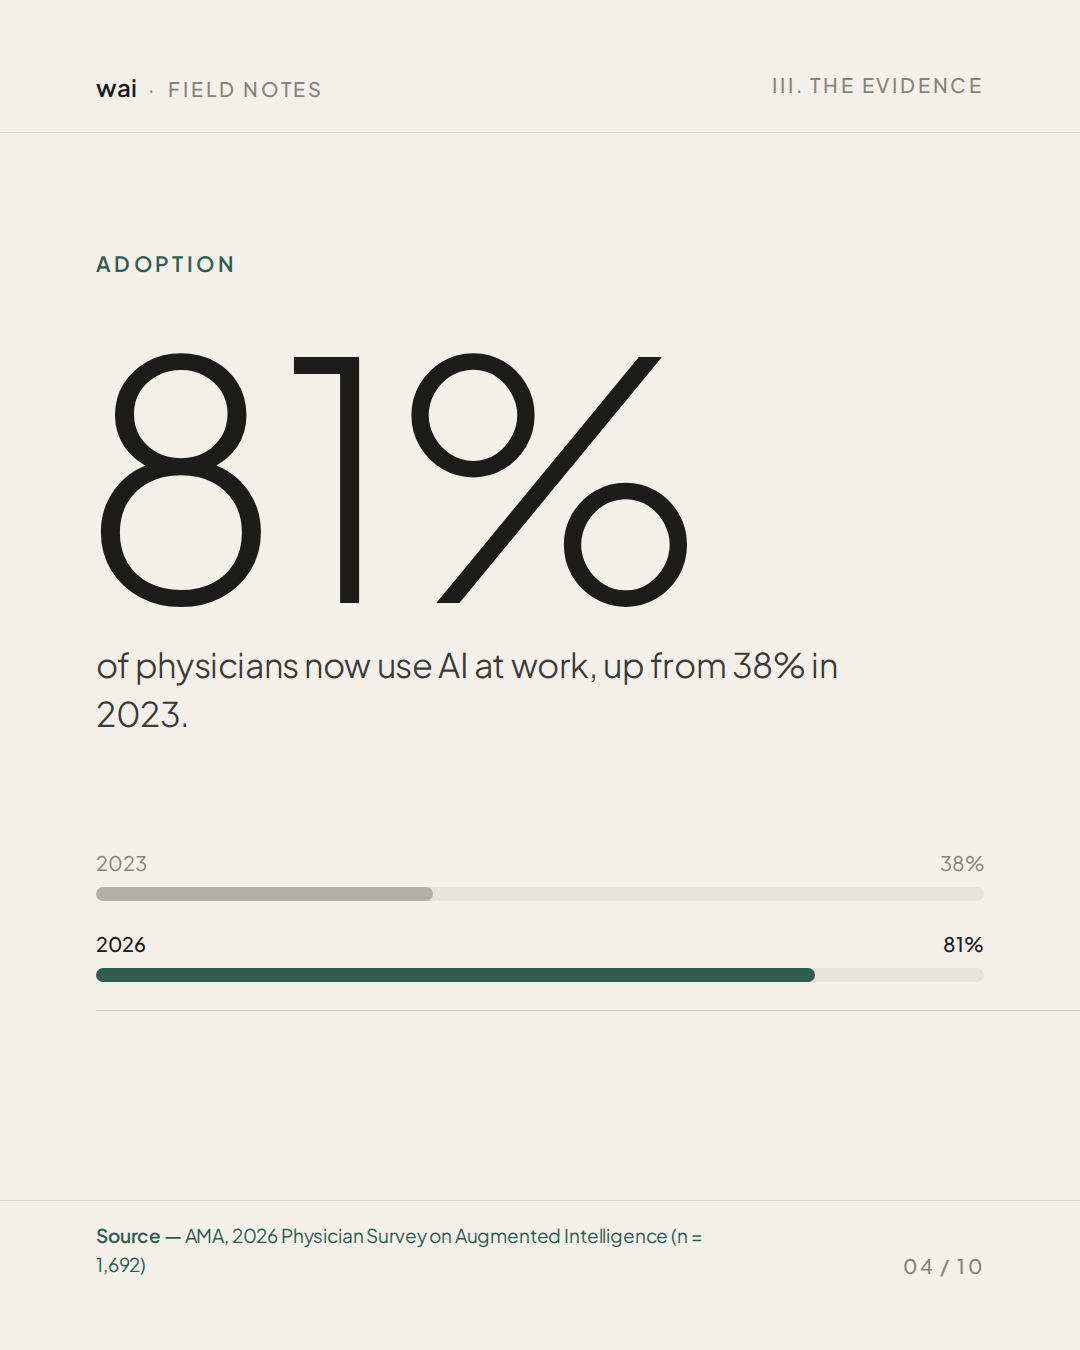
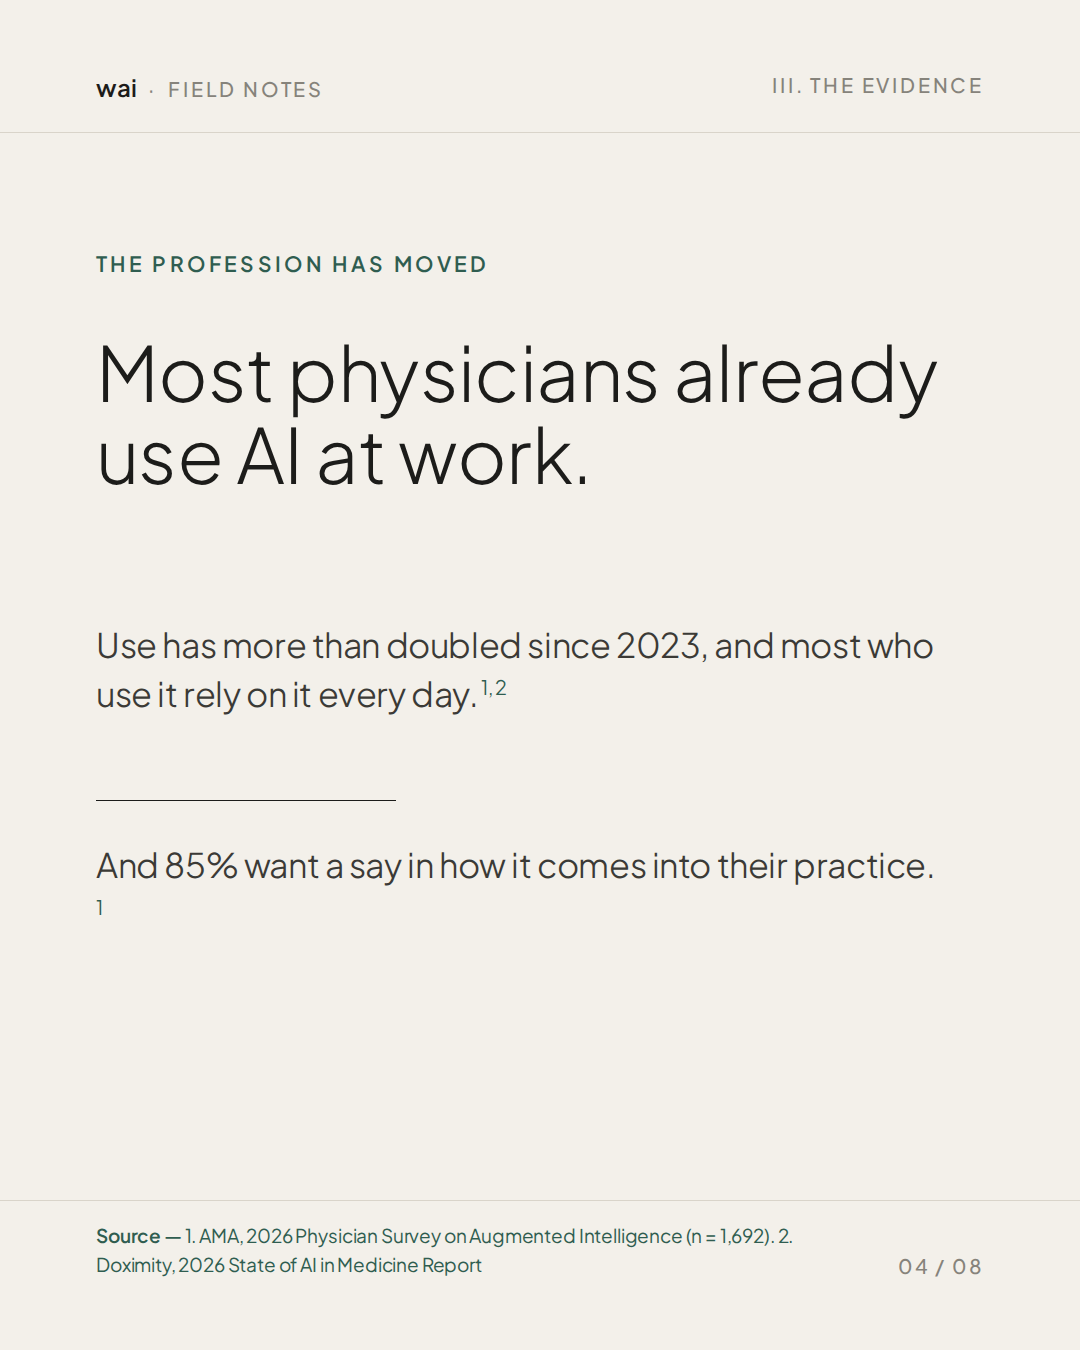
Rework wai carousel to 8 slides with fewer stat-led pages
Keep the 57.8-hour hook and the burnout study as the only number-led
slides; fold the AMA and Doximity figures into one editorial slide.

Claude-Session: https://claude.ai/code/session_012gvNFrVBV2SWFASoGgB3Ry

diff --git a/wai-carousel/source.html b/wai-carousel/source.html
@@ -40,17 +40,11 @@ body{font-family:'PJS',sans-serif;color:var(--ink);-webkit-font-smoothing:antial
 </style>
 </head>
 <body>
-<div id="strip">
-
-<!-- continuous elements -->
-<div class="rule" style="top:132px"></div>
-<div class="rule" style="top:1200px"></div>
+<div id="strip" style="width:8640px">
+<div class="rule" style="top:132px;width:8640px"></div>
+<div class="rule" style="top:1200px;width:8640px"></div>
 <div class="arc" style="width:1500px;height:1500px;left:330px;top:-80px"></div>
-<div class="arc" style="width:1300px;height:1300px;left:8180px;top:25px"></div>
-<!-- data rail across stats slides 4-7 -->
-<div style="position:absolute;left:3336px;width:4128px;top:1010px;height:1px;background:var(--ink);opacity:.18"></div>
-
-<!-- 1 COVER -->
+<div class="arc" style="width:1300px;height:1300px;left:6020px;top:25px"></div>
 <section class="s" style="left:0">
   <div class="hd"><span><b>wai</b> &nbsp;·&nbsp; Field Notes</span><span>No. 01 — Clinical time</span></div>
   <div style="position:absolute;top:250px;left:96px" class="kicker">The work after the visit</div>
@@ -58,20 +52,16 @@ body{font-family:'PJS',sans-serif;color:var(--ink);-webkit-font-smoothing:antial
   <div style="position:absolute;top:735px;left:96px" class="h"><span style="font-size:118px">hours a week.</span></div>
   <div style="position:absolute;top:900px;left:100px;font-size:46px;font-style:italic;font-weight:300;color:#4A4944;letter-spacing:-0.02em">Not all of it is medicine.</div>
   <div style="position:absolute;top:262px;right:96px" class="chip"><span class="dot"></span>18:02 · Last patient seen</div>
-  <div class="ft"><span class="src">AMA physician survey</span><span class="folio">01 / 10 &nbsp;→</span></div>
+  <div class="ft"><span class="src">AMA physician survey</span><span class="folio">01 / 08 &nbsp;→</span></div>
 </section>
-
-<!-- 2 -->
 <section class="s" style="left:1080px">
   <div class="hd"><span><b>wai</b> &nbsp;·&nbsp; Field Notes</span><span>The work after the visit</span></div>
   <div style="position:absolute;top:250px;left:96px" class="kicker">I. The second shift</div>
   <div style="position:absolute;top:330px;left:96px;width:860px" class="h"><span style="font-size:92px">The consultation is only part of the work.</span></div>
   <div style="position:absolute;top:760px;left:96px;width:300px;height:1px;background:var(--ink)"></div>
   <div style="position:absolute;top:800px;left:96px;width:780px" class="body">When the last patient leaves, a second workload begins. It rarely appears on the rota, yet every piece of it carries clinical responsibility.</div>
-  <div class="ft"><span class="src">Medscape UK, “Junior Doctors Work 57 Hours a Week”, 29 Sep 2026</span><span class="folio">02 / 10</span></div>
+  <div class="ft"><span class="src">Medscape UK, “Junior Doctors Work 57 Hours a Week”, 29 Sep 2026</span><span class="folio">02 / 08</span></div>
 </section>
-
-<!-- 3 UI: four tasks -->
 <section class="s" style="left:2160px">
   <div class="hd"><span><b>wai</b> &nbsp;·&nbsp; Field Notes</span><span>The work after the visit</span></div>
   <div style="position:absolute;top:250px;left:96px" class="kicker">II. After every visit</div>
@@ -85,72 +75,36 @@ body{font-family:'PJS',sans-serif;color:var(--ink);-webkit-font-smoothing:antial
     <div class="row"><span>The booking</span><span class="st"><span class="dot"></span>Next appointment arranged</span></div>
   </div>
   <div style="position:absolute;top:1060px;left:96px;width:820px" class="note">Each one is essential. None of them appears on the rota.</div>
-  <div class="ft"><span></span><span class="folio">03 / 10</span></div>
+  <div class="ft"><span></span><span class="folio">03 / 08</span></div>
 </section>
-
-<!-- 4 81% -->
 <section class="s" style="left:3240px">
   <div class="hd"><span><b>wai</b> &nbsp;·&nbsp; Field Notes</span><span>III. The evidence</span></div>
-  <div style="position:absolute;top:250px;left:96px" class="kicker">Adoption</div>
-  <div style="position:absolute;top:320px;left:80px" class="big"><span style="font-size:330px">81%</span></div>
-  <div style="position:absolute;top:640px;left:96px;width:800px" class="body">of physicians now use AI at work, up from 38% in 2023.</div>
-  <div style="position:absolute;top:850px;left:96px;width:888px">
-    <div style="display:flex;justify-content:space-between;font-size:20px;color:var(--muted);margin-bottom:12px"><span>2023</span><span>38%</span></div>
-    <div class="bar"><div class="bar" style="width:38%;background:var(--soft)"></div></div>
-    <div style="display:flex;justify-content:space-between;font-size:20px;color:var(--ink);margin:30px 0 12px;font-weight:500"><span>2026</span><span>81%</span></div>
-    <div class="bar"><div class="bar" style="width:81%;background:var(--green)"></div></div>
-  </div>
-  <div class="ft"><span class="src">AMA, 2026 Physician Survey on Augmented Intelligence (n = 1,692)</span><span class="folio">04 / 10</span></div>
+  <div style="position:absolute;top:250px;left:96px" class="kicker">The profession has moved</div>
+  <div style="position:absolute;top:330px;left:96px;width:880px" class="h"><span style="font-size:76px">Most physicians already use AI at work.</span></div>
+  <div style="position:absolute;top:620px;left:96px;width:840px" class="body">Use has more than doubled since 2023, and most who use it rely on it every day.<sup style="font-size:20px;color:var(--green)"> 1, 2</sup></div>
+  <div style="position:absolute;top:800px;left:96px;width:300px;height:1px;background:var(--ink)"></div>
+  <div style="position:absolute;top:840px;left:96px;width:840px" class="body">And 85% want a say in how it comes into their practice.<sup style="font-size:20px;color:var(--green)"> 1</sup></div>
+  <div class="ft"><span class="src" style="max-width:720px">1. AMA, 2026 Physician Survey on Augmented Intelligence (n = 1,692). 2. Doximity, 2026 State of AI in Medicine Report</span><span class="folio">04 / 08</span></div>
 </section>
-
-<!-- 5 74% -->
 <section class="s" style="left:4320px">
-  <div class="hd"><span><b>wai</b> &nbsp;·&nbsp; Field Notes</span><span>III. The evidence</span></div>
-  <div style="position:absolute;top:250px;left:96px" class="kicker">Habit</div>
-  <div style="position:absolute;top:320px;left:80px" class="big"><span style="font-size:330px">74%</span></div>
-  <div style="position:absolute;top:640px;left:96px;width:800px" class="body">of physicians who use AI use it every day.</div>
-  <div style="position:absolute;top:860px;left:96px;display:flex;gap:18px"><div style="text-align:center;font-size:18px;color:var(--muted)"><div style="width:104px;height:104px;border-radius:26px;background:var(--green);margin-bottom:12px"></div>Mon</div><div style="text-align:center;font-size:18px;color:var(--muted)"><div style="width:104px;height:104px;border-radius:26px;background:var(--green);margin-bottom:12px"></div>Tue</div><div style="text-align:center;font-size:18px;color:var(--muted)"><div style="width:104px;height:104px;border-radius:26px;background:var(--green);margin-bottom:12px"></div>Wed</div><div style="text-align:center;font-size:18px;color:var(--muted)"><div style="width:104px;height:104px;border-radius:26px;background:var(--green);margin-bottom:12px"></div>Thu</div><div style="text-align:center;font-size:18px;color:var(--muted)"><div style="width:104px;height:104px;border-radius:26px;background:var(--green);margin-bottom:12px"></div>Fri</div><div style="text-align:center;font-size:18px;color:var(--muted)"><div style="width:104px;height:104px;border-radius:26px;background:var(--green);margin-bottom:12px"></div>Sat</div><div style="text-align:center;font-size:18px;color:var(--muted)"><div style="width:104px;height:104px;border-radius:26px;background:var(--green);margin-bottom:12px"></div>Sun</div>
-  </div>
-  <div class="ft"><span class="src">Doximity, 2026 State of AI in Medicine Report</span><span class="folio">05 / 10</span></div>
-</section>
-
-<!-- 6 burnout -->
-<section class="s" style="left:5400px">
-  <div class="hd"><span><b>wai</b> &nbsp;·&nbsp; Field Notes</span><span>III. The evidence</span></div>
+  <div class="hd"><span><b>wai</b> &nbsp;·&nbsp; Field Notes</span><span>IV. One study</span></div>
   <div style="position:absolute;top:250px;left:96px" class="kicker">Burnout</div>
   <div style="position:absolute;top:320px;left:88px" class="big"><div style="font-size:96px;color:var(--soft);font-weight:300;letter-spacing:-0.04em">51.9% <span style="font-size:60px">→</span></div><div style="font-size:230px;margin-top:10px">38.8%</div></div>
   <div style="position:absolute;top:690px;left:96px;width:820px" class="body">Clinician burnout, before and after 30 days with an ambient AI scribe.</div>
   <div style="position:absolute;top:830px;left:96px;display:flex;gap:16px">
     <span class="chip">263 clinicians</span><span class="chip">6 US health systems</span><span class="chip">No control group</span>
   </div>
-  <div class="ft"><span class="src">Olson et al., 2025, JAMA Network Open</span><span class="folio">06 / 10</span></div>
+  <div class="ft"><span class="src">Olson et al., 2025, JAMA Network Open</span><span class="folio">05 / 08</span></div>
 </section>
-
-<!-- 7 85% -->
-<section class="s" style="left:6480px">
-  <div class="hd"><span><b>wai</b> &nbsp;·&nbsp; Field Notes</span><span>III. The evidence</span></div>
-  <div style="position:absolute;top:250px;left:96px" class="kicker">Consent</div>
-  <div style="position:absolute;top:320px;left:80px" class="big"><span style="font-size:330px">85%</span></div>
-  <div style="position:absolute;top:640px;left:96px;width:800px" class="body">of physicians want a say in how AI comes into their practice.</div>
-  <div style="position:absolute;top:860px;left:96px;display:grid;grid-template-columns:repeat(20,32px);gap:12px">
-    <!-- 20 cells = 100%, 17 filled = 85% -->
-    <i style="height:32px;border-radius:50%;background:var(--green)"></i><i style="height:32px;border-radius:50%;background:var(--green)"></i><i style="height:32px;border-radius:50%;background:var(--green)"></i><i style="height:32px;border-radius:50%;background:var(--green)"></i><i style="height:32px;border-radius:50%;background:var(--green)"></i><i style="height:32px;border-radius:50%;background:var(--green)"></i><i style="height:32px;border-radius:50%;background:var(--green)"></i><i style="height:32px;border-radius:50%;background:var(--green)"></i><i style="height:32px;border-radius:50%;background:var(--green)"></i><i style="height:32px;border-radius:50%;background:var(--green)"></i><i style="height:32px;border-radius:50%;background:var(--green)"></i><i style="height:32px;border-radius:50%;background:var(--green)"></i><i style="height:32px;border-radius:50%;background:var(--green)"></i><i style="height:32px;border-radius:50%;background:var(--green)"></i><i style="height:32px;border-radius:50%;background:var(--green)"></i><i style="height:32px;border-radius:50%;background:var(--green)"></i><i style="height:32px;border-radius:50%;background:var(--green)"></i><i style="height:32px;border-radius:50%;background:#E3DED4"></i><i style="height:32px;border-radius:50%;background:#E3DED4"></i><i style="height:32px;border-radius:50%;background:#E3DED4"></i>
-  </div>
-  <div class="ft"><span class="src">AMA, 2026 Physician Survey on Augmented Intelligence</span><span class="folio">07 / 10</span></div>
-</section>
-
-<!-- 8 control -->
-<section class="s" style="left:7560px">
-  <div class="hd"><span><b>wai</b> &nbsp;·&nbsp; Field Notes</span><span>IV. On trust</span></div>
+<section class="s" style="left:5400px">
+  <div class="hd"><span><b>wai</b> &nbsp;·&nbsp; Field Notes</span><span>V. On trust</span></div>
   <div style="position:absolute;top:250px;left:96px" class="kicker">Control builds trust</div>
   <div style="position:absolute;top:330px;left:96px;width:880px" class="h"><span style="font-size:70px">People abandon an algorithm after one visible mistake.</span></div>
   <div style="position:absolute;top:640px;left:96px;width:860px" class="body">But they keep using an imperfect one when they can <span style="background:linear-gradient(transparent 58%, rgba(47,93,80,.16) 58%);">change its output</span><span style="display:inline-block;width:3px;height:38px;background:var(--green);vertical-align:-6px;margin-left:4px"></span></div>
-  <div class="ft"><span class="src">Dietvorst, Simmons &amp; Massey, 2015; Dietvorst et al., 2018</span><span class="folio">08 / 10</span></div>
+  <div class="ft"><span class="src">Dietvorst, Simmons &amp; Massey, 2015; Dietvorst et al., 2018</span><span class="folio">06 / 08</span></div>
 </section>
-
-<!-- 9 product UI -->
-<section class="s" style="left:8640px">
-  <div class="hd"><span><b>wai</b> &nbsp;·&nbsp; Field Notes</span><span>V. The approach</span></div>
+<section class="s" style="left:6480px">
+  <div class="hd"><span><b>wai</b> &nbsp;·&nbsp; Field Notes</span><span>VI. The approach</span></div>
   <div style="position:absolute;top:250px;left:96px" class="kicker">Prepared by wai</div>
   <div style="position:absolute;top:320px;left:96px;width:880px" class="h"><span style="font-size:76px">Approved by the doctor.</span></div>
   <div class="card" style="position:absolute;top:500px;left:96px;width:888px;padding:36px">
@@ -168,20 +122,15 @@ body{font-family:'PJS',sans-serif;color:var(--ink);-webkit-font-smoothing:antial
     </div>
   </div>
   <div style="position:absolute;top:1010px;left:96px;width:860px" class="note">Every word is reviewed, edited and approved before anything is sent.</div>
-  <div class="ft"><span></span><span class="folio">09 / 10</span></div>
+  <div class="ft"><span></span><span class="folio">07 / 08</span></div>
 </section>
-
-<!-- 10 close -->
-<section class="s" style="left:9720px">
+<section class="s" style="left:7560px">
   <div class="hd"><span><b>wai</b> &nbsp;·&nbsp; Field Notes</span><span>End note</span></div>
   <div style="position:absolute;top:330px;left:96px;width:880px" class="h"><span style="font-size:96px">The visit is the medicine.</span></div>
   <div style="position:absolute;top:580px;left:100px;width:880px;font-size:56px;font-style:italic;font-weight:300;color:#4A4944;letter-spacing:-0.025em">Let the rest be prepared.</div>
   <div style="position:absolute;top:860px;left:92px;font-size:150px;font-weight:600;letter-spacing:-0.06em;line-height:1">wai</div>
   <div style="position:absolute;top:1040px;left:96px;font-size:26px;font-weight:500;color:var(--green);letter-spacing:.02em">wellnessa-i.com</div>
   <div style="position:absolute;top:1030px;right:96px;display:flex;gap:12px"><span class="chip">Save</span><span class="chip">Send to a colleague</span></div>
-  <div class="ft"><span></span><span class="folio">10 / 10</span></div>
+  <div class="ft"><span></span><span class="folio">08 / 08</span></div>
 </section>
-
-</div>
-</body>
-</html>
+</div></body></html>
